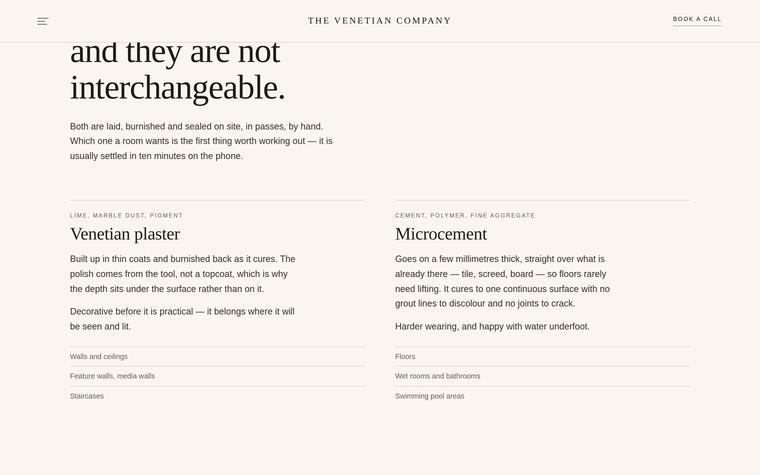
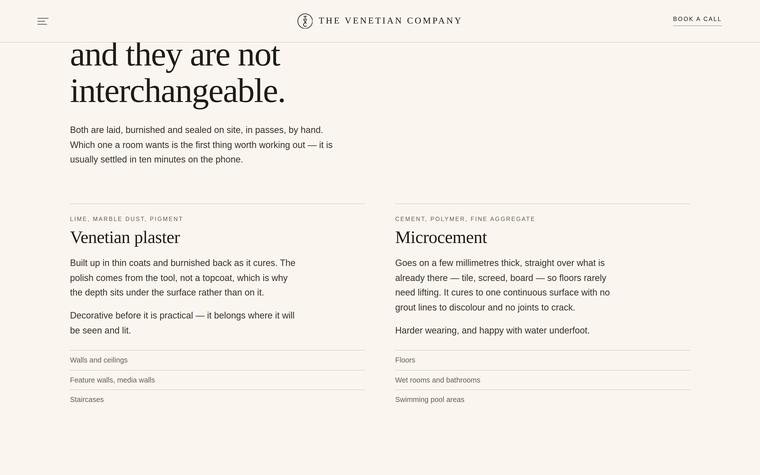
The Venetian Company shipped — relabel, re-capture, and fix the pill overrun
The gh-pages CNAME now reads thevenetiancompany.co.uk, so the pitch landed
and the site is live on the company's own domain. It is no longer a
concept: the tag, the role line, the copy and the live link all change to
match, and it moves to the head of the list as the newest and most
complete build. The default active project, the eager slot image and both
ambient-light layers move with it so the static markup matches the state
the list starts in.

Assets re-captured from the current build, which has moved on since the
first pass — favicon set, web manifest, monogram and a wordmark that no
longer truncates the company's name on a phone. The copy says so; that
work is the difference between a pitch and a shipped site. All four frames
re-checked for the prospect's contact details, and our own copy still
names no one.

Fixes a latent bug the longer name exposed: the project list was
shrink-to-fit inside a shrink-to-fit rail, so max-width:100% resolved
against the widest pill and capped nothing. A long enough label ran the
active pill out over the render — already true of Taiyabah and LuxeScent
at 1280 and below, and of Venetian at 1440. The pill is now capped to the
rail's own content width, and still hugs shorter labels.

The list tags go with it. They were desktop-only and clipped mid-word at
every width tested including 1920 — they never fit beside these names. The
capability detail they carried is in each case study's role line, and the
[…]

diff --git a/index.html b/index.html
@@ -39,30 +39,26 @@
     <div class="plist">
       <ul class="projects">
         <li>
+          <a class="project" href="venetian.html" data-project="venetian">
+            <span class="p-name">The Venetian Company</span>
+            <svg class="p-expand" viewBox="0 0 24 24" fill="none" stroke="currentColor" stroke-width="2.2" stroke-linecap="round" stroke-linejoin="round" aria-hidden="true"><path d="M5 12h14M13 6l6 6-6 6"/></svg>
+          </a>
+        </li>
+        <li>
           <a class="project" href="taiyabah.html" data-project="taiyabah">
             <span class="p-name">Taiyabah Masjid</span>
-            <span class="p-tag">App · Backend · Signage</span>
             <svg class="p-expand" viewBox="0 0 24 24" fill="none" stroke="currentColor" stroke-width="2.2" stroke-linecap="round" stroke-linejoin="round" aria-hidden="true"><path d="M5 12h14M13 6l6 6-6 6"/></svg>
           </a>
         </li>
         <li>
           <a class="project" href="buxtravel.html" data-project="bux">
             <span class="p-name">Bux Travel</span>
-            <span class="p-tag">Website · Bookings</span>
             <svg class="p-expand" viewBox="0 0 24 24" fill="none" stroke="currentColor" stroke-width="2.2" stroke-linecap="round" stroke-linejoin="round" aria-hidden="true"><path d="M5 12h14M13 6l6 6-6 6"/></svg>
           </a>
         </li>
         <li>
           <a class="project" href="luxescent.html" data-project="luxe">
             <span class="p-name">LuxeScent UK</span>
-            <span class="p-tag">Storefront · Commerce</span>
-            <svg class="p-expand" viewBox="0 0 24 24" fill="none" stroke="currentColor" stroke-width="2.2" stroke-linecap="round" stroke-linejoin="round" aria-hidden="true"><path d="M5 12h14M13 6l6 6-6 6"/></svg>
-          </a>
-        </li>
-        <li>
-          <a class="project" href="venetian.html" data-project="venetian">
-            <span class="p-name">The Venetian Company</span>
-            <span class="p-tag">Concept · Plaster</span>
             <svg class="p-expand" viewBox="0 0 24 24" fill="none" stroke="currentColor" stroke-width="2.2" stroke-linecap="round" stroke-linejoin="round" aria-hidden="true"><path d="M5 12h14M13 6l6 6-6 6"/></svg>
           </a>
         </li>
@@ -75,10 +71,10 @@
   <div class="stage" aria-hidden="true">
     <div class="desk">
       <div class="bloom-layer bloom-back">
-        <img class="bloom is-active" data-shot="taiyabah" src="assets/img/taiyabah-web.jpg" alt="" aria-hidden="true" decoding="async">
+        <img class="bloom" data-shot="taiyabah" src="assets/img/taiyabah-web.jpg" alt="" aria-hidden="true" decoding="async">
         <img class="bloom" data-shot="bux" src="assets/img/bux-web.jpg" alt="" aria-hidden="true" decoding="async">
         <img class="bloom" data-shot="luxe" src="assets/img/luxe-web.jpg" alt="" aria-hidden="true" decoding="async">
-        <img class="bloom" data-shot="venetian" src="assets/img/venetian-web.jpg" alt="" aria-hidden="true" decoding="async">
+        <img class="bloom is-active" data-shot="venetian" src="assets/img/venetian-web.jpg" alt="" aria-hidden="true" decoding="async">
       </div>
 
       <svg class="desk-svg" viewBox="106 54 988 840" preserveAspectRatio="xMidYMid meet" focusable="false">
@@ -137,18 +133,18 @@
       </svg>
 
       <div class="bloom-layer bloom-front">
-        <img class="bloom is-active" data-shot="taiyabah" src="assets/img/taiyabah-web.jpg" alt="" aria-hidden="true" decoding="async">
+        <img class="bloom" data-shot="taiyabah" src="assets/img/taiyabah-web.jpg" alt="" aria-hidden="true" decoding="async">
         <img class="bloom" data-shot="bux" src="assets/img/bux-web.jpg" alt="" aria-hidden="true" decoding="async">
         <img class="bloom" data-shot="luxe" src="assets/img/luxe-web.jpg" alt="" aria-hidden="true" decoding="async">
-        <img class="bloom" data-shot="venetian" src="assets/img/venetian-web.jpg" alt="" aria-hidden="true" decoding="async">
+        <img class="bloom is-active" data-shot="venetian" src="assets/img/venetian-web.jpg" alt="" aria-hidden="true" decoding="async">
       </div>
 
       <!-- the slot -->
       <div class="screen-slot">
-        <img class="shot is-active" data-shot="taiyabah" src="assets/img/taiyabah-web.jpg" srcset="assets/img/taiyabah-web.jpg 760w" sizes="(max-width:900px) 100vw, 40vw" width="760" height="475" alt="" decoding="async" fetchpriority="high">
+        <img class="shot" data-shot="taiyabah" src="assets/img/taiyabah-web.jpg" srcset="assets/img/taiyabah-web.jpg 760w" sizes="(max-width:900px) 100vw, 40vw" width="760" height="475" alt="" decoding="async">
         <img class="shot" data-shot="bux" src="assets/img/bux-web.jpg" srcset="assets/img/bux-web.jpg 760w" sizes="(max-width:900px) 100vw, 40vw" width="760" height="475" alt="" decoding="async">
         <img class="shot" data-shot="luxe" src="assets/img/luxe-web.jpg" srcset="assets/img/luxe-web.jpg 760w" sizes="(max-width:900px) 100vw, 40vw" width="760" height="475" alt="" decoding="async">
-        <img class="shot" data-shot="venetian" src="assets/img/venetian-web.jpg" srcset="assets/img/venetian-web.jpg 760w" sizes="(max-width:900px) 100vw, 40vw" width="760" height="475" alt="" decoding="async">
+        <img class="shot is-active" data-shot="venetian" src="assets/img/venetian-web.jpg" srcset="assets/img/venetian-web.jpg 760w" sizes="(max-width:900px) 100vw, 40vw" width="760" height="475" alt="" decoding="async" fetchpriority="high">
       </div>
     </div>
   </div>

diff --git a/venetian.html b/venetian.html
@@ -3,7 +3,7 @@
 <head>
 <meta charset="UTF-8"><meta name="viewport" content="width=device-width, initial-scale=1.0">
 <title>The Venetian Company — YSB Designs</title>
-<meta name="description" content="A speculative pitch site for a nationwide Venetian plastering firm — built before any approach, to show what their work could look like online.">
+<meta name="description" content="A single-page site, monogram and icon set for a nationwide Venetian plastering firm — pitched unasked, now live on their own domain.">
 <link rel="preconnect" href="https://fonts.googleapis.com"><link rel="preconnect" href="https://fonts.gstatic.com" crossorigin>
 <link href="https://fonts.googleapis.com/css2?family=Bricolage+Grotesque:opsz,wght@12..96,400..800&family=Instrument+Sans:ital,wght@0,400;0,500;0,600;1,400&family=JetBrains+Mono:wght@400;500&display=swap" rel="stylesheet">
 <link rel="stylesheet" href="assets/portfolio.css">
@@ -17,13 +17,13 @@
       <svg viewBox="0 0 24 24" fill="none" stroke="currentColor" stroke-width="2.2" stroke-linecap="round" stroke-linejoin="round" aria-hidden="true"><path d="M19 12H5M11 18l-6-6 6-6"/></svg>
     </a>
     <h1>The Venetian Company</h1>
-    <p class="case-role">Concept · Website · Design → build → deploy</p>
+    <p class="case-role">Website · Identity · Design → build → deploy</p>
     <div class="case-copy">
       <p>The Venetian Company lay Venetian plaster and microcement in homes across the country. Their work is genuinely beautiful and it lived entirely on Instagram — no website, nothing to send anyone, nothing that turns up in a search.</p>
-      <p>So I built one before asking. A full single-page site, art-directed around their own photography: a full-bleed hero, the two materials explained side by side, how a job runs, what it costs, and one action running through all of it — <strong>book a call</strong>. Astro, hand-built, deployed and live.</p>
-      <p><strong>This is a concept, not a commission.</strong> Nobody asked for it and no money changed hands. It is here because a finished site is a better pitch than a quote, and because it shows what I do with a brand that deserves better than a grid of square photos.</p>
+      <p>I built the site before being asked. One page, art-directed around their own photography: a full-bleed hero, the two materials explained side by side, how a job runs, what it costs, and a single action running through all of it — <strong>book a call</strong>.</p>
+      <p>It is now <strong>live on their own domain</strong>, with a monogram, a full icon set and a web manifest behind it, so it installs to a phone and shows a proper mark in the tab rather than a blank glyph. Astro, hand-built, deployed end to end.</p>
     </div>
-    <a class="live-link" href="https://yameenbux.github.io/Venetiancompany/" target="_blank" rel="noopener">See the concept<svg viewBox="0 0 24 24" fill="none" stroke="currentColor" stroke-width="2.2" stroke-linecap="round" stroke-linejoin="round" aria-hidden="true"><path d="M7 17 17 7M7 7h10v10"/></svg></a>
+    <a class="live-link" href="https://thevenetiancompany.co.uk/" target="_blank" rel="noopener">See it live<svg viewBox="0 0 24 24" fill="none" stroke="currentColor" stroke-width="2.2" stroke-linecap="round" stroke-linejoin="round" aria-hidden="true"><path d="M7 17 17 7M7 7h10v10"/></svg></a>
   </aside>
 
   <div class="case-stack">
@@ -36,12 +36,12 @@
       <figcaption>Two materials, told apart</figcaption>
     </figure>
     <figure class="shot-card">
-      <img src="assets/img/venetian-finishes.jpg" srcset="assets/img/venetian-finishes.jpg 760w" sizes="(max-width:900px) 88vw, 46vw" width="760" height="475" alt="The finishes section of the concept site" loading="lazy" decoding="async">
+      <img src="assets/img/venetian-finishes.jpg" srcset="assets/img/venetian-finishes.jpg 760w" sizes="(max-width:900px) 88vw, 46vw" width="760" height="475" alt="The finishes section of the site" loading="lazy" decoding="async">
       <figcaption>Finishes · told apart by name</figcaption>
     </figure>
     <figure class="shot-card is-portrait">
-      <img src="assets/img/venetian-phone.jpg" srcset="assets/img/venetian-phone.jpg 340w" sizes="(max-width:900px) 74vw, 300px" width="340" height="735" alt="The concept site on a phone" loading="lazy" decoding="async">
-      <figcaption>Mobile · book a call</figcaption>
+      <img src="assets/img/venetian-phone.jpg" srcset="assets/img/venetian-phone.jpg 340w" sizes="(max-width:900px) 74vw, 300px" width="340" height="735" alt="The site on a phone, showing the monogram and wordmark" loading="lazy" decoding="async">
+      <figcaption>Mobile · monogram, wordmark, one action</figcaption>
     </figure>
   </div>
 

diff --git a/assets/portfolio.css b/assets/portfolio.css
@@ -176,7 +176,11 @@ img{display:block;max-width:100%}
 
 .project{
   display:inline-flex;align-items:center;gap:14px;
-  width:max-content;max-width:100%;
+  width:max-content;
+  max-width:26vw;               /* the rail's own content width: 40vw - 14vw
+                                   of padding. Without this the pill sized to
+                                   max-content and a long enough label ran out
+                                   over the render. */
   padding:10px 15px;                 /* h-padding = 1.5 × v-padding */
   border-radius:100px;               /* radius = half height */
   background:transparent;
@@ -188,11 +192,7 @@ img{display:block;max-width:100%}
   font-size:clamp(var(--t-lg),2.1vw,var(--t-xl));
   line-height:var(--lh-display);letter-spacing:var(--ls-display);
   white-space:nowrap;
-}
-.p-tag{
-  font-family:var(--mono);font-size:var(--t-mono-sm);line-height:var(--lh-label);letter-spacing:var(--ls-mono-sm);text-transform:uppercase;
-  color:var(--muted);white-space:nowrap;
-  opacity:0;transition:opacity .15s ease;
+  flex:0 0 auto;
 }
 .p-expand{
   width:17px;height:17px;flex:none;
@@ -205,7 +205,6 @@ img{display:block;max-width:100%}
   color:var(--text);
   padding-right:38px;                /* pill runs wider than the label */
 }
-.project.is-active .p-tag{opacity:1}
 .project.is-active .p-expand{opacity:1;transform:translateX(0)}
 .project:hover{transform:translateY(-2px)}
 
@@ -383,7 +382,6 @@ img{display:block;max-width:100%}
   .project.is-active{padding-right:20px}
   .project:hover{transform:none}
   .p-expand{margin-left:auto}
-  .p-tag{display:none}
 
   /* At the end of the document rather than fixed, as the reference has it:
      contact action bottom-left in the slot its theme control occupies,

diff --git a/README.md b/README.md
@@ -52,11 +52,11 @@ A shop-style storefront for a Bolton fragrance brand — product carousel, inter
 *Stack:* static, zero-dependency HTML/CSS/JS · CSS design tokens · IntersectionObserver motion · Formspree · Etsy commerce.
 *Live:* [luxescentuk](https://yameenbux.github.io/Luxescentuk/)
 
-### The Venetian Company — Venetian plaster &amp; microcement *(concept)*
+### The Venetian Company — Venetian plaster &amp; microcement
 → **[/venetian.html](https://ysbdesigns.uk/venetian.html)**
-A speculative pitch site for a nationwide plastering firm whose work lived entirely on Instagram — built before any approach, to show what it could look like online. Not a commission.
-*Stack:* Astro · Tailwind · art-directed around the client's own photography · single call-to-action throughout.
-*Live:* [concept site](https://yameenbux.github.io/Venetiancompany/)
+A nationwide plastering firm whose work lived entirely on Instagram. Pitched unasked as a finished site; now live on their own domain with a monogram, a full icon set and a web manifest behind it.
+*Stack:* Astro · Tailwind · art-directed around the client's own photography · installable, single call-to-action throughout.
+*Live:* [thevenetiancompany.co.uk](https://thevenetiancompany.co.uk/)
 
 > *"Exceeded our expectations. We told YSB he could have free rein to do what he liked — and he over-delivered. Would recommend."*
 > — **Zahid, LuxeScent UK** (client)
@@ -70,7 +70,7 @@ index.html          Portfolio index — split layout, desk render slot, about st
 taiyabah.html       Case study
 buxtravel.html      Case study
 luxescent.html      Case study (client)
-venetian.html       Case study (speculative concept, not a commission)
+venetian.html       Case study
 services.html       Plans, pricing and how it works — kept off the index
 assets/
   portfolio.css     Index + case-study layout (self-contained, carries the tokens)
